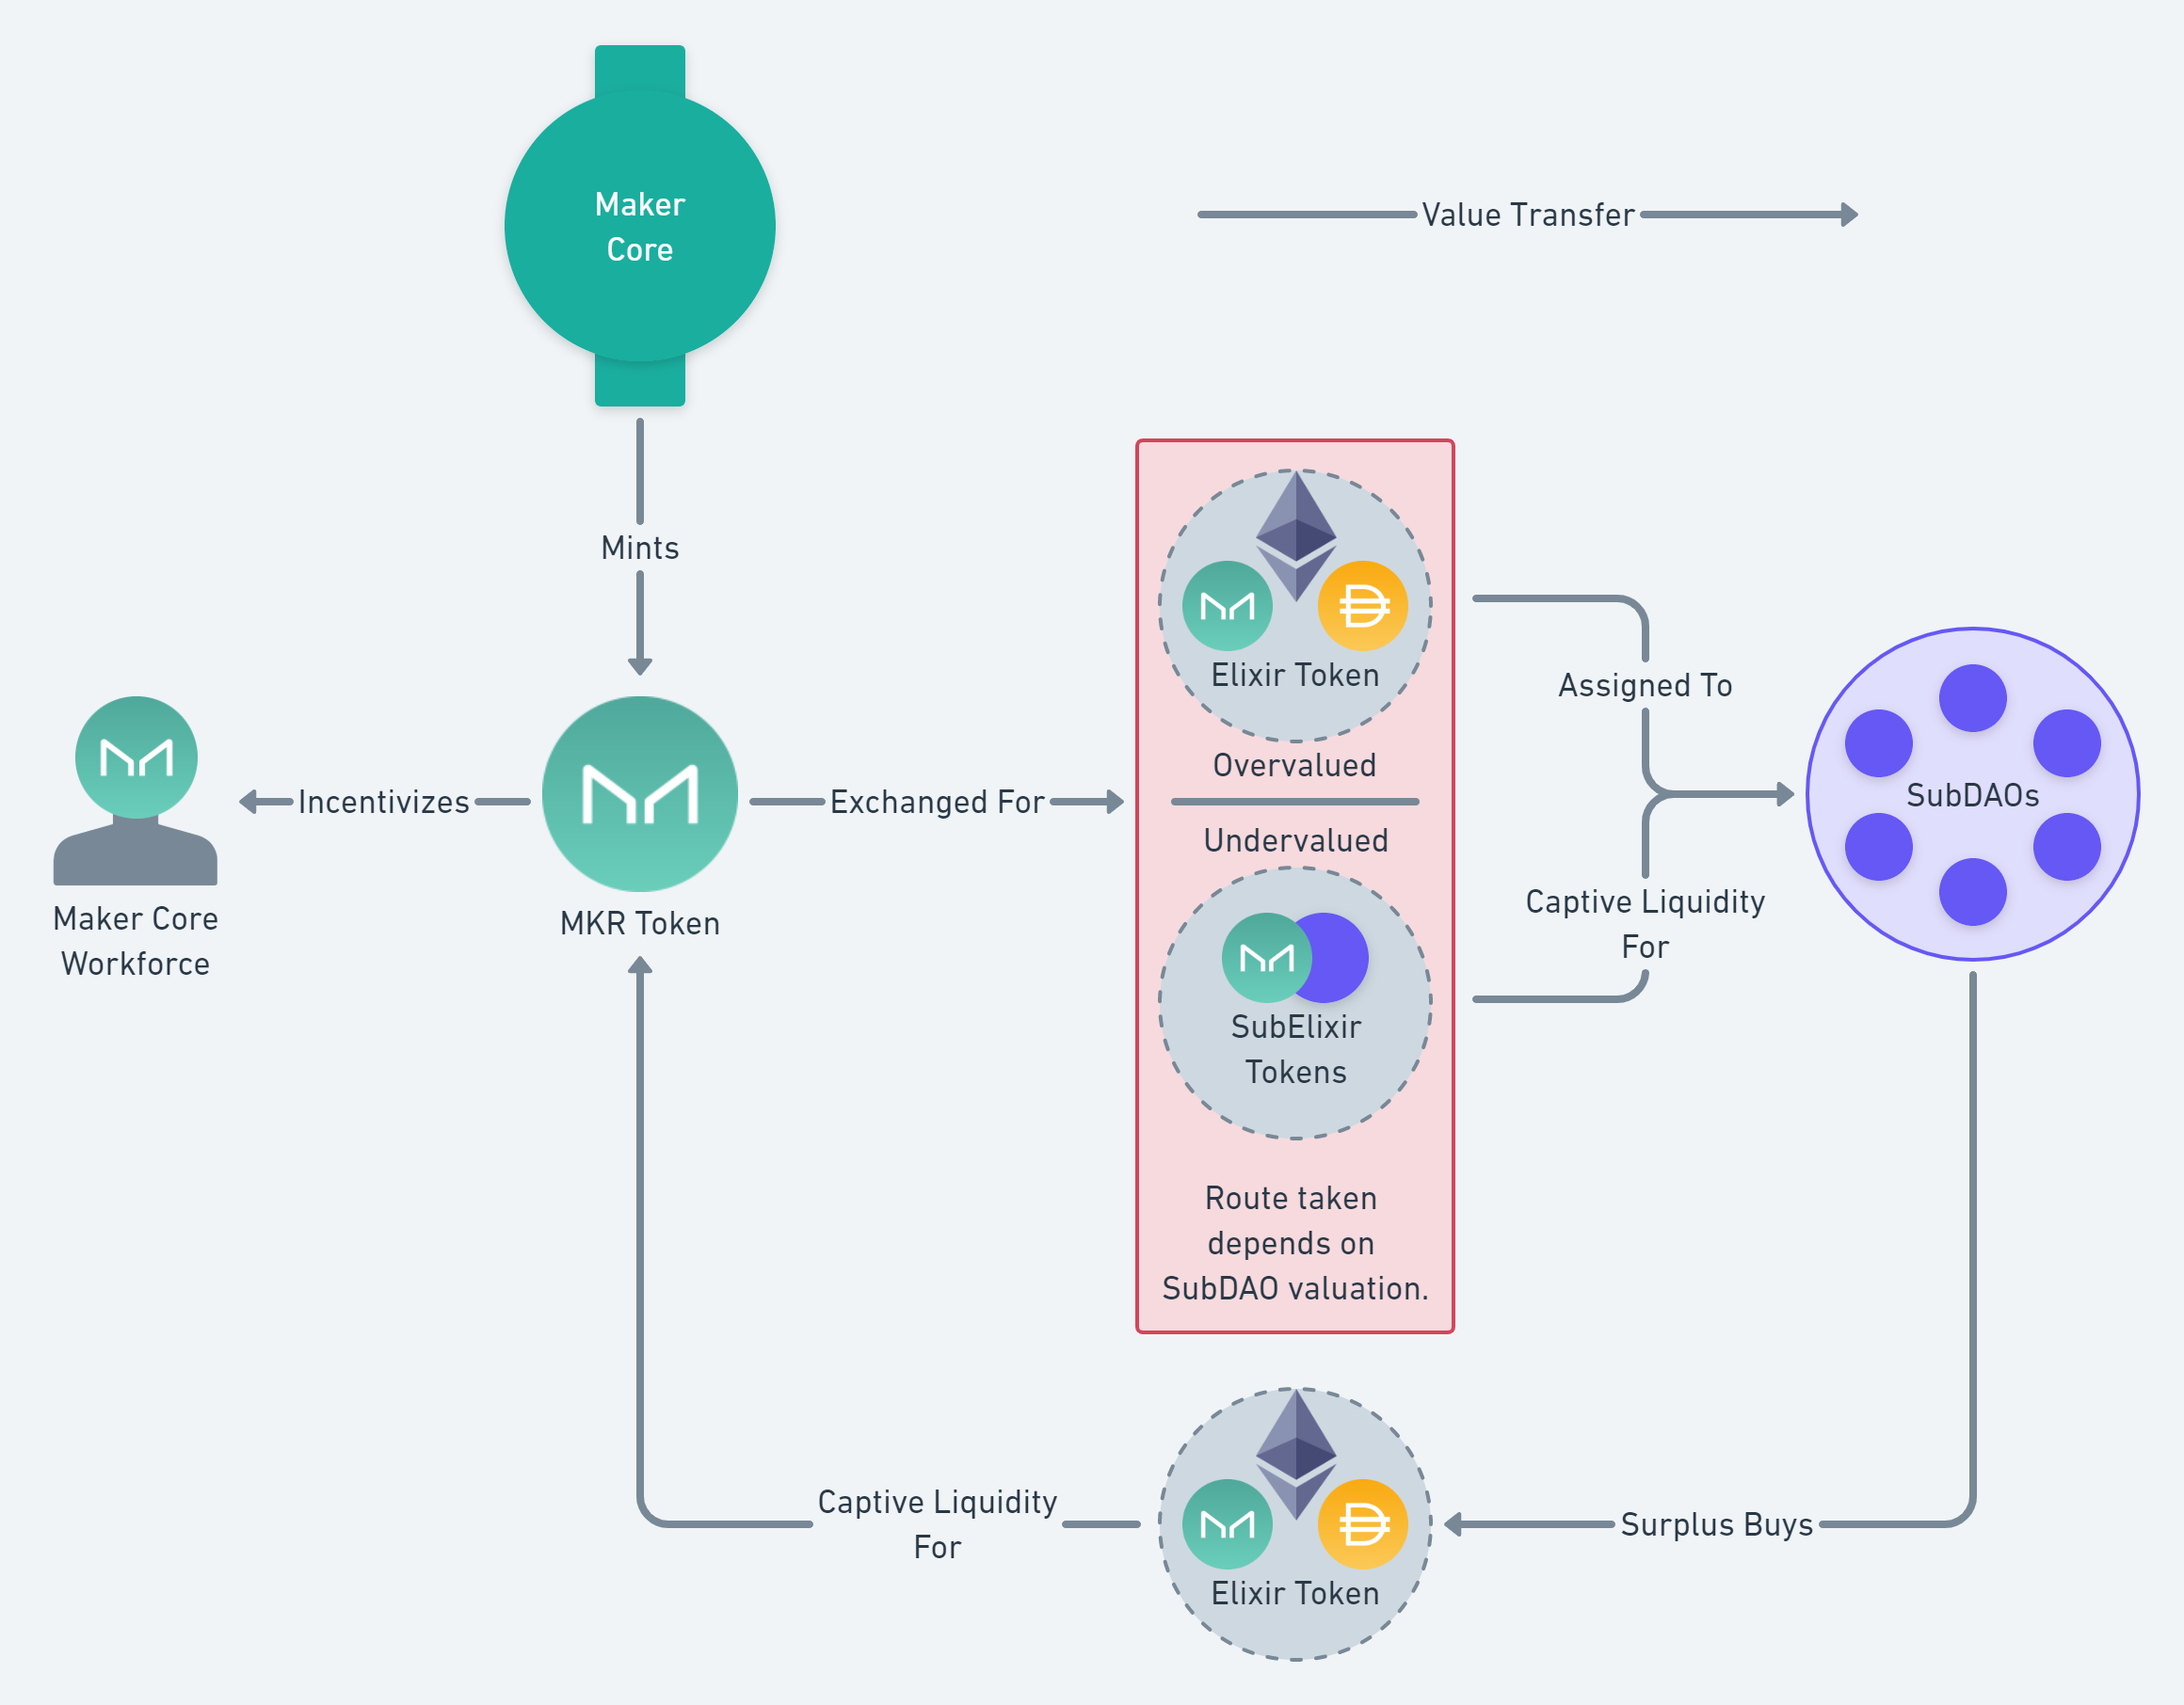
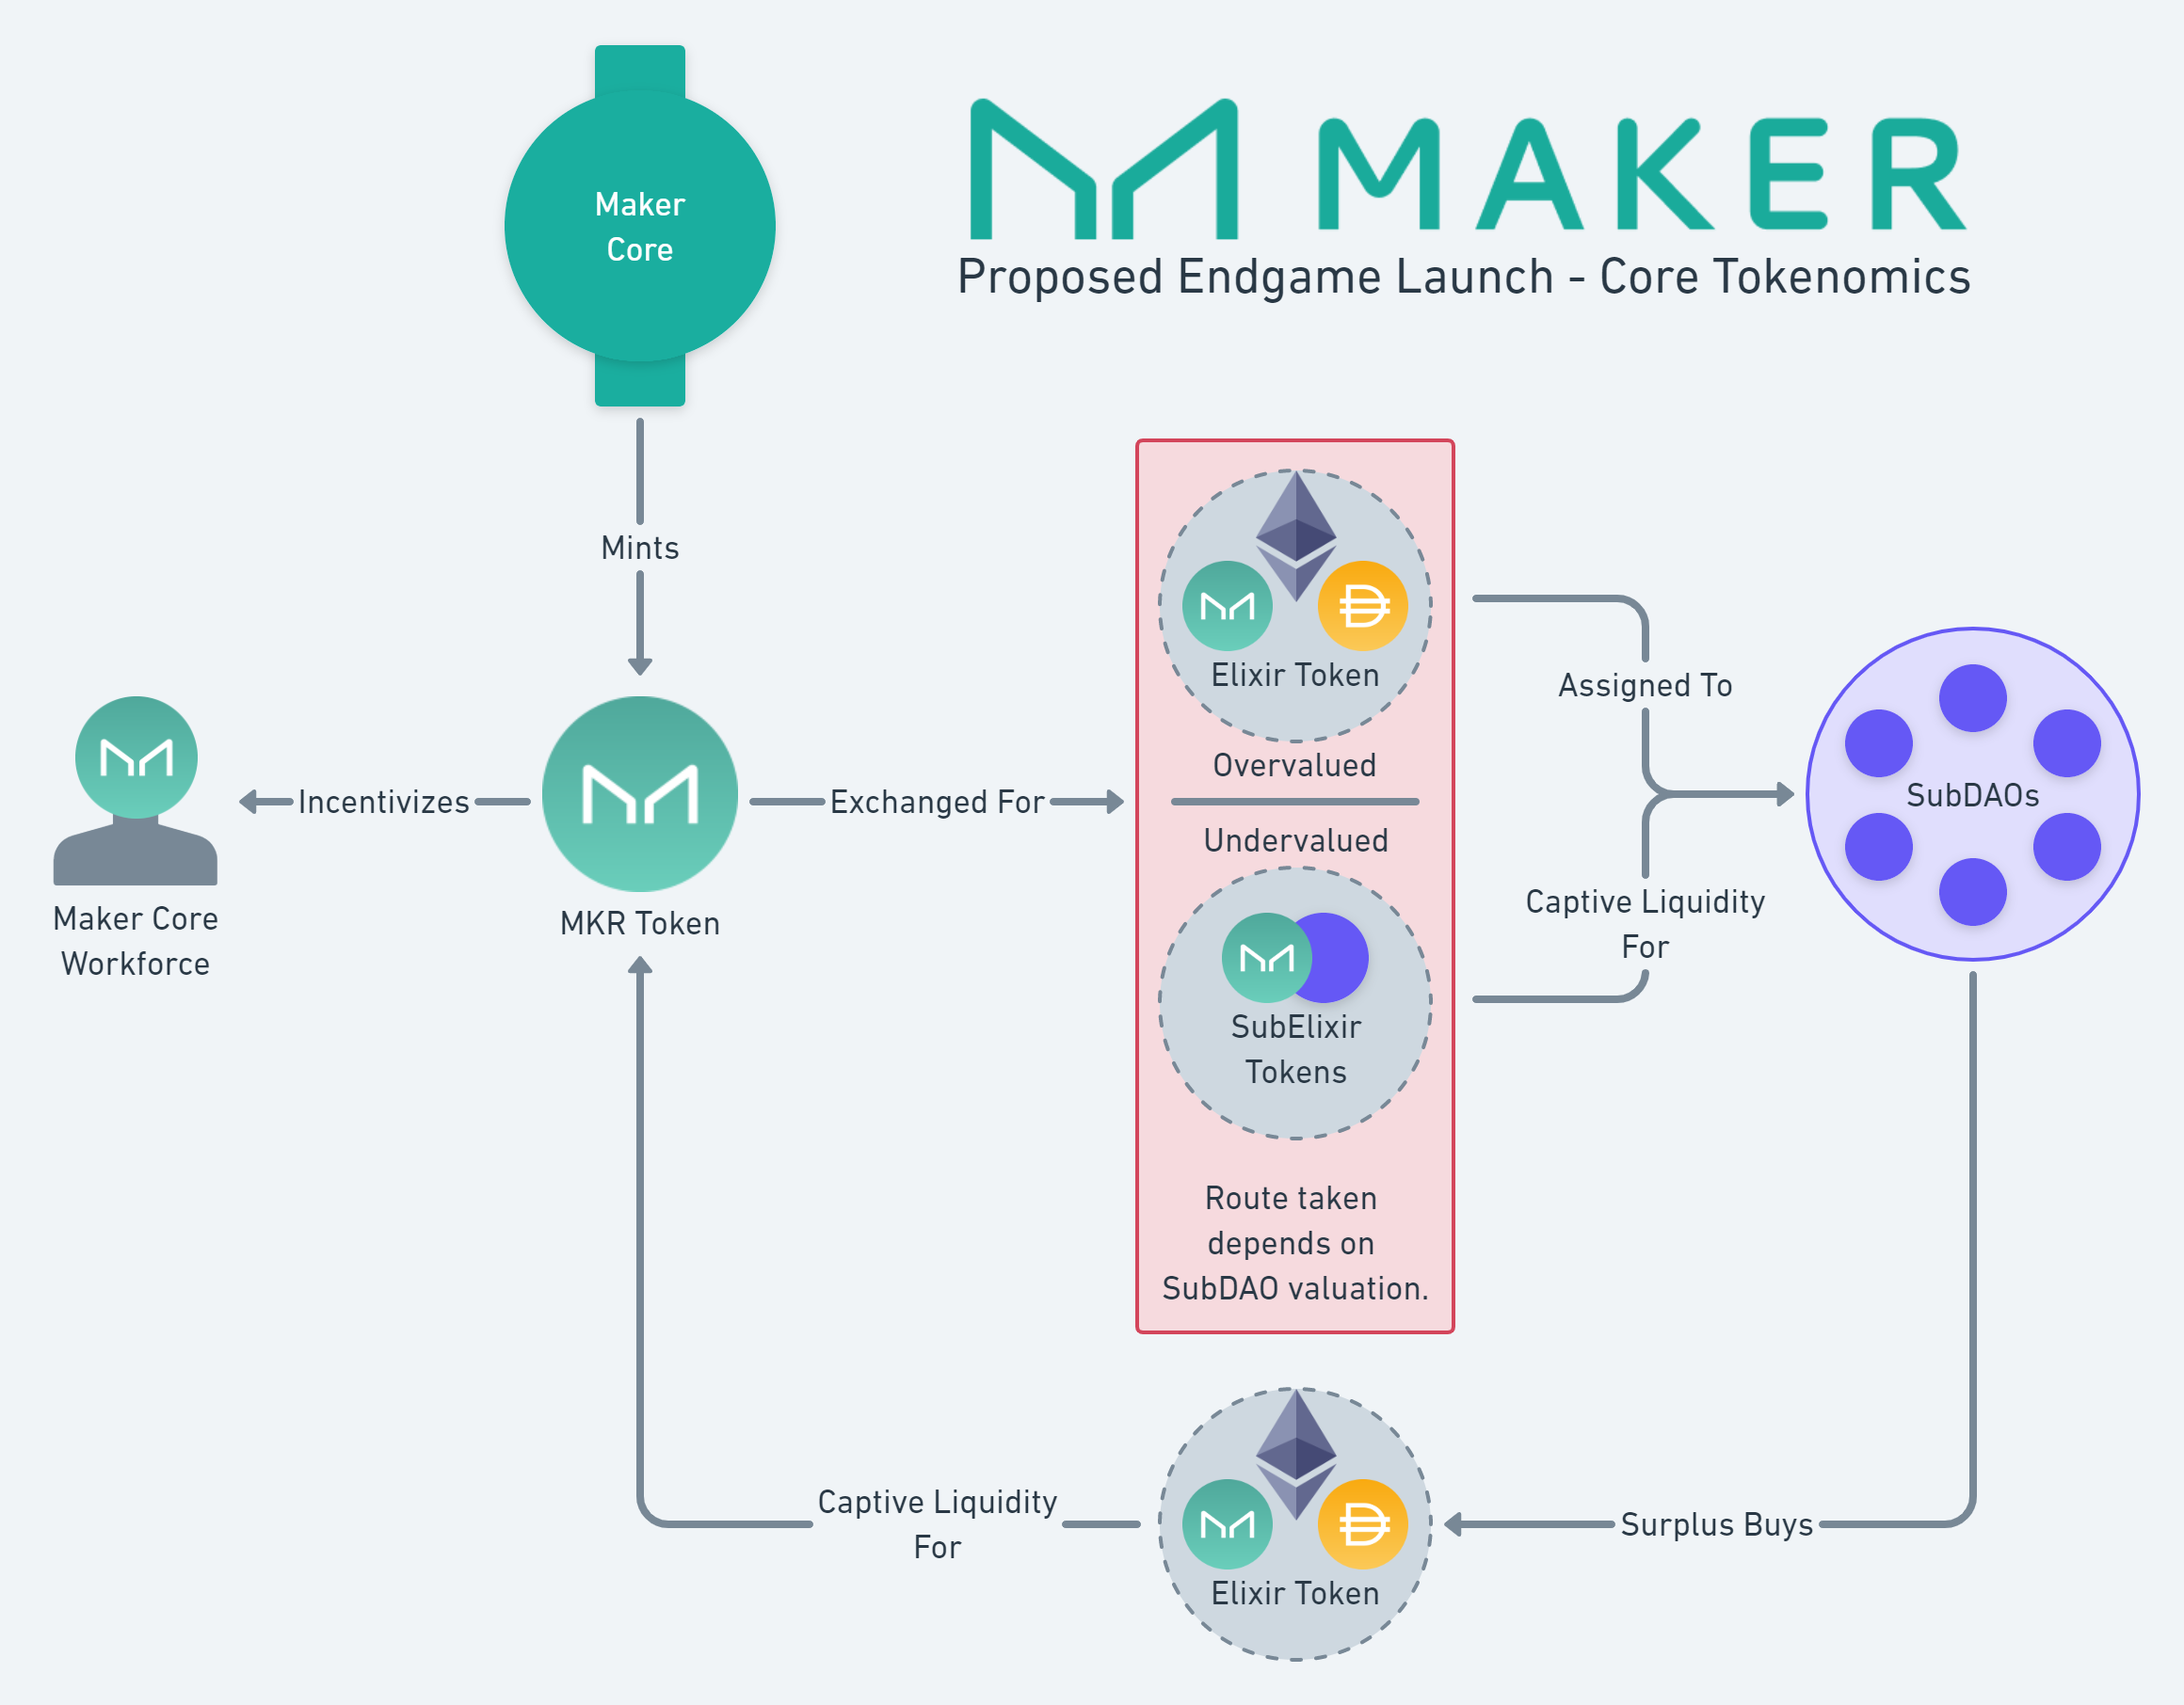
Fiddling with diagrams

Changed region(s): [[0.4345, 0.0618, 0.9, 0.1854]]

diff --git a/tokenomics/mkr-tokenomics.md b/tokenomics/mkr-tokenomics.md
@@ -6,7 +6,7 @@ MKR (Maker) is the preexisting governance token for the Maker Protocol. Under th
 This documentation describes planned functionality and processes that MakerDAO has not yet implemented. Be aware that parts may be inaccurate or out of date.
 {% endhint %}
 
-## Overview
+## Launch Overview
 
 ![Maker Core Tokenomics](../assets/images/core-tokenomics.png)
 

diff --git a/tokenomics/subdao-tokenomics.md b/tokenomics/subdao-tokenomics.md
@@ -6,7 +6,7 @@ Each Maker SubDAO has its own SubDAO token. Each SubDAO token is a new token tha
 This documentation describes planned functionality and processes that MakerDAO has not yet implemented. Be aware that parts may be inaccurate or out of date.
 {% endhint %}
 
-## Overview
+## Launch Overview
 
 ![SubDAO Tokenomics](../assets/images/subdao-tokenomics.png)
 

diff --git a/SUMMARY.md b/SUMMARY.md
@@ -24,3 +24,4 @@
 * [Elixir](tokenomics/elixir.md)
 * [SubElixir](tokenomics/subelixir.md)
 * [MKR Tokenomics](tokenomics/mkr-tokenomics.md)
+* [SubDAO Tokenomics](tokenomics/subdao-tokenomics.md)
